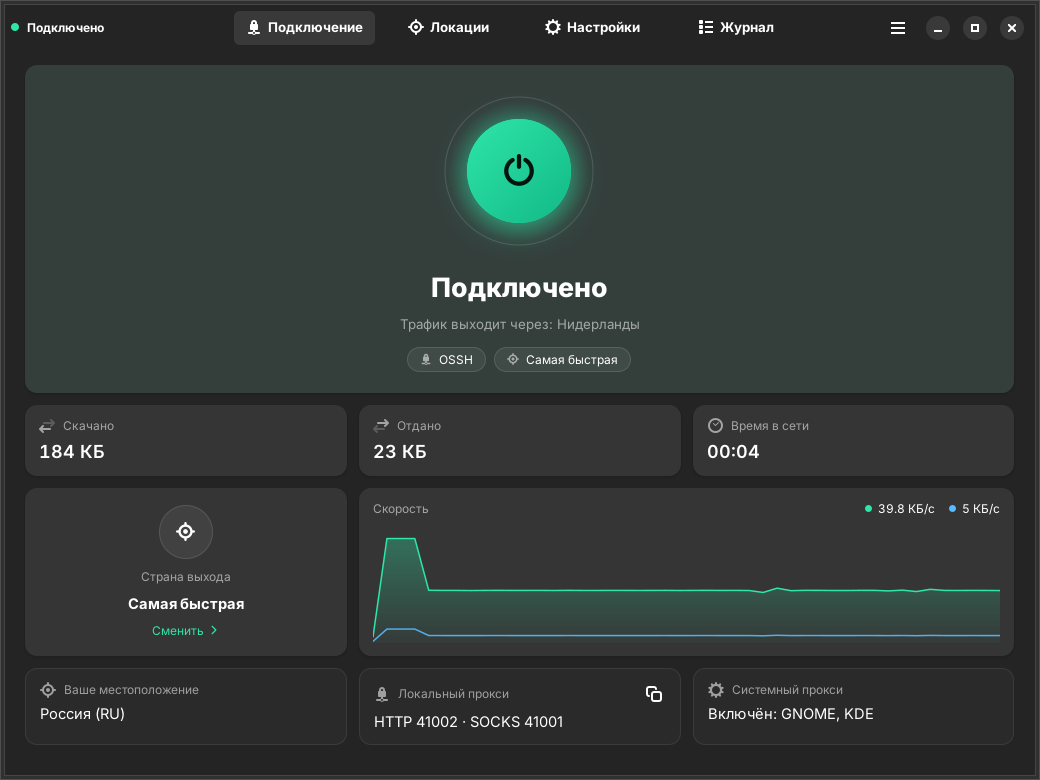
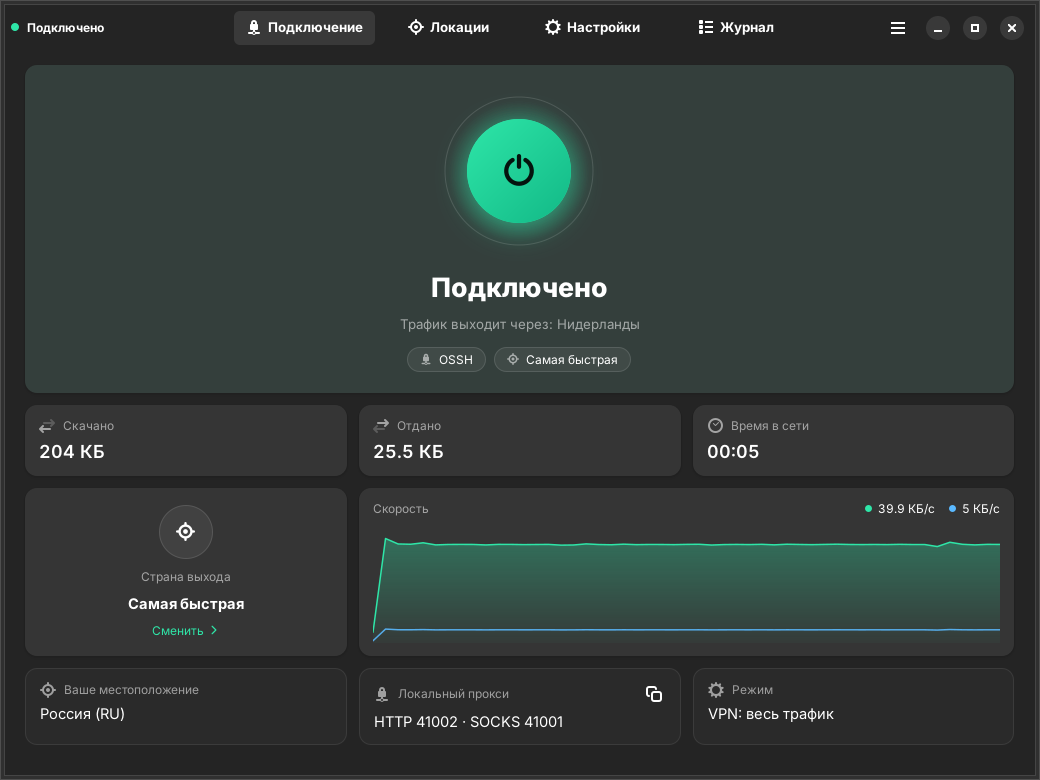
Linux: country list from the built-in servers, helper watches its parent, docs and screenshots for 1.1.0
The country picker is filled from the embedded server list until the
engine reports, so it is never empty before the first connection. The VPN
helper also notices a vanished parent by itself, in case the parent-death
signal is missed. README, release notes and screenshots describe VPN mode.

Claude-Session: https://claude.ai/code/session_01Lxv8NorDPhasZDrG7kxmQU

diff --git a/linux/nextvpn/core/regions.py b/linux/nextvpn/core/regions.py
@@ -2,7 +2,10 @@
 
 from __future__ import annotations
 
+import binascii
+import json
 import locale
+import os
 from dataclasses import dataclass
 
 from .i18n import N_, _
@@ -117,3 +120,30 @@ TUNNEL_PROTOCOLS: tuple[TunnelProtocol, ...] = (
     TunnelProtocol("SHADOWSOCKS-OSSH", "Shadowsocks",
                    N_("Shadowsocks-shaped transport.")),
 )
+
+
+def embedded_regions(server_list: os.PathLike | str) -> list[str]:
+    """
+    The exit countries of the servers built into the app, read straight from the
+    embedded server list, so the picker is full from the very first launch,
+    before the engine has run once. Each line is a hex-encoded server entry:
+    four space-separated legacy fields followed by a JSON object.
+    """
+    found: set[str] = set()
+    try:
+        with open(server_list, "rb") as fh:
+            lines = fh.read().split(b"\n")
+    except OSError:
+        return []
+    for line in lines:
+        line = line.strip()
+        if not line:
+            continue
+        try:
+            entry = json.loads(binascii.unhexlify(line).split(b" ", 4)[4])
+        except (ValueError, IndexError, binascii.Error):
+            continue
+        region = entry.get("region") if isinstance(entry, dict) else None
+        if isinstance(region, str) and len(region) == 2 and region.isalpha():
+            found.add(region.upper())
+    return sorted(found)

diff --git a/linux/nextvpn/core/vpn_helper.py b/linux/nextvpn/core/vpn_helper.py
@@ -94,6 +94,7 @@ class Helper:
         self.uplink: vpn.Uplink | None = None
         self.connected = threading.Event()
         self._checked_dns = False
+        self.parent = os.getppid()
 
     # ---------------------------------------------------------------- run
 
@@ -129,11 +130,20 @@ class Helper:
         if self.stop.is_set() or not self._start_engine():
             return 0 if self.stop.is_set() else 5
 
-        while not self.stop.wait(POLL_SECONDS):
+        waited = 0.0
+        while not self.stop.wait(1.0):
+            # The parent-death signal is the fast path; this catches the app
+            # going away however it went, a second later at most.
+            if os.getppid() != self.parent:
+                return 0
+            # An engine that gives up is noticed at once, the uplink every few seconds.
             code = self.proc.poll()
             if code is not None:
                 return code
-            self._follow_uplink()
+            waited += 1.0
+            if waited >= POLL_SECONDS:
+                waited = 0.0
+                self._follow_uplink()
             if self.connected.is_set() and not self._checked_dns:
                 self._checked_dns = True
                 threading.Thread(target=self._check_dns, daemon=True).start()

diff --git a/linux/nextvpn/ui/viewmodel.py b/linux/nextvpn/ui/viewmodel.py
@@ -16,12 +16,12 @@ from datetime import datetime
 
 from gi.repository import GLib, GObject
 
-from ..core import fmt, system_proxy
+from ..core import fmt, paths, system_proxy
 from ..core.engine import EngineOutput, TunnelEngine
 from ..core.i18n import _
 from ..core.notice import Notice, NoticeType
 from ..core.policy import NoticeLevel, NoticePolicy
-from ..core.regions import RegionInfo, Regions
+from ..core.regions import RegionInfo, Regions, embedded_regions
 from ..core.settings import AppSettings, ConnectionMode
 from ..core.status import StatusPresenter, TunnelState
 from ..core.system_proxy import SystemProxy
@@ -86,7 +86,9 @@ class MainViewModel(GObject.Object):
 
         self.selected_region = Regions.describe(settings.egress_region)
         self.available_regions: list[RegionInfo] = []
-        self._rebuild_regions(settings.known_regions)
+        # Until the engine has reported once, the countries of the built-in
+        # servers: the engine starts from exactly those.
+        self._rebuild_regions(settings.known_regions or embedded_regions(paths.engine().server_list))
 
         self.engine.state_changed.connect(self._on_state_changed)
         self.engine.notice_received.connect(self._on_notice)

diff --git a/linux/tests/test_regions_status.py b/linux/tests/test_regions_status.py
@@ -106,3 +106,25 @@ class StatusPresenterTests(unittest.TestCase):
 
 if __name__ == "__main__":
     unittest.main()
+
+
+class EmbeddedRegionTests(unittest.TestCase):
+    def test_the_shipped_server_list_offers_its_countries_before_the_engine_runs(self):
+        from nextvpn.core import paths
+        from nextvpn.core.regions import embedded_regions
+        codes = embedded_regions(paths.engine().server_list)
+        self.assertGreaterEqual(len(codes), 10)
+        for code in ("DE", "NL", "US"):
+            self.assertIn(code, codes)
+        self.assertEqual(sorted(codes), codes)
+
+    def test_garbage_and_missing_files_give_nothing_rather_than_an_error(self):
+        import binascii
+        import tempfile
+        from pathlib import Path
+        from nextvpn.core.regions import embedded_regions
+        with tempfile.TemporaryDirectory() as d:
+            good = binascii.hexlify(b'0 0 0 0 {"region":"fi","ipAddress":"192.0.2.1"}')
+            Path(d, "list").write_bytes(b"zz\n" + good + b"\n\n" + binascii.hexlify(b"0 0 0 0 [1]") + b"\n")
+            self.assertEqual(["FI"], embedded_regions(Path(d, "list")))
+            self.assertEqual([], embedded_regions(Path(d, "missing")))

diff --git a/linux/tests/fake_nm.py b/linux/tests/fake_nm.py
@@ -29,7 +29,10 @@ def profiles() -> dict:
 
 
 def save(p: dict) -> None:
-    (state / "profiles.json").write_text(json.dumps(p))
+    # Atomically: the test reads this file while the helper changes it.
+    tmp = state / f"profiles.json.{os.getpid()}"
+    tmp.write_text(json.dumps(p))
+    os.replace(tmp, state / "profiles.json")
 
 
 def uplink() -> dict:

diff --git a/linux/packaging/release-notes.md b/linux/packaging/release-notes.md
@@ -1,31 +1,49 @@
-## NextVPN для Linux
-
-Первая версия для Linux: GTK 4 и libadwaita, **те же серверы** и все те же
-возможности, что у версии для Windows. Одна кнопка, выбор страны, трей,
-автозапуск, светлая и тёмная тема, интерфейс на русском.
+## NextVPN 1.1.0 для Linux
 
 <img src="https://raw.githubusercontent.com/Just-ElC/NextVPN/main/.github/screenshot-linux-light.png" alt="NextVPN для Linux" width="720">
+
+### Что нового
+
+- **Режим VPN: через туннель идёт всё.** Браузеры, Telegram, Discord, игры,
+  терминал, DNS и IPv6 — в любом окружении, включая Hyprland (caelestia и другие
+  оболочки на quickshell), Sway, niri и i3. Раньше там через туннель шли только
+  немногие программы, читающие системный прокси. Интерфейс создаёт
+  NetworkManager, пароль не нужен. После отключения, сбоя или `kill -9` сеть
+  возвращается как была. Без NetworkManager работает прежний режим системного
+  прокси.
+- **Движок обновлён** до свежего upstream psiphon-tunnel-core (20 октября): там
+  исправления in-proxy подключений, TLS ECH и работы в сетях без IPv6. Сборка
+  воспроизводима: CI пересобирает движок из исходников и сверяет байт в байт.
+- **Значок в трее** появляется в caelestia и других оболочках на quickshell, в
+  том числе при запуске через `nix run`.
+- **Нет синих плашек** со «стартовой страницей» и «версией 189» — это сообщения
+  сети Psiphon для её собственного клиента; теперь они только в журнале.
+- Если подключение через выбранную страну затянулось, NextVPN подскажет
+  выбрать «Самая быстрая» — там серверов во много раз больше.
 
 ### Установка
 
 | Система | Файл | Команда |
 |---|---|---|
-| **Fedora** 40+ | `nextvpn-1.0.0-1.x86_64.rpm` | `sudo dnf install ./nextvpn-1.0.0-1.x86_64.rpm` |
-| **CachyOS, Arch, EndeavourOS, Manjaro** | `nextvpn-1.0.0-1-x86_64.pkg.tar.zst` | `sudo pacman -U nextvpn-1.0.0-1-x86_64.pkg.tar.zst` |
-| **Ubuntu** 24.04+, **Debian** 13+, **Linux Mint** 22+ | `nextvpn_1.0.0-1_amd64.deb` | `sudo apt install ./nextvpn_1.0.0-1_amd64.deb` |
-| **NixOS** | — | `nix run github:Just-ElC/NextVPN/v1.0.0-linux` |
-| Любой другой | `NextVPN-1.0.0-linux.tar.gz` | распаковать, затем `linux/install.sh --deps && linux/install.sh` |
+| **Fedora** 40+ | `nextvpn-1.1.0-1.x86_64.rpm` | `sudo dnf install ./nextvpn-1.1.0-1.x86_64.rpm` |
+| **CachyOS, Arch, EndeavourOS, Manjaro** | `nextvpn-1.1.0-1-x86_64.pkg.tar.zst` | `sudo pacman -U nextvpn-1.1.0-1-x86_64.pkg.tar.zst` |
+| **Ubuntu** 24.04+, **Debian** 13+, **Linux Mint** 22+ | `nextvpn_1.1.0-1_amd64.deb` | `sudo apt install ./nextvpn_1.1.0-1_amd64.deb` |
+| **NixOS** | — | модуль `programs.nextvpn.enable = true` или `nix run github:Just-ElC/NextVPN/v1.1.0-linux` |
+| Любой другой | `NextVPN-1.1.0-linux.tar.gz` | распаковать, затем `linux/install.sh --deps && linux/install.sh` |
 
 После установки NextVPN появится в меню приложений.
 
 ### Что важно знать
 
-- Подключение к сети Psiphon проверено автоматически при сборке этого релиза:
-  туннель поднимается с теми же `base.config` и списком серверов, что у
-  Windows-версии, и через него проходит трафик.
-- На время подключения включается системный прокси GNOME и KDE Plasma — его
-  используют браузеры и большинство программ. Ваши настройки возвращаются после
-  отключения. Для терминала на главной есть кнопка с готовой командой `export`.
+- При сборке этого релиза CI проверил, что всё работает на настоящей сети
+  Psiphon. В режиме прокси трафик идёт через локальный прокси. В режиме VPN
+  обычный запрос и DNS уходят с адреса сервера Psiphon, в том числе при строгом
+  `rp_filter`, как в файрволе NixOS. После отключения и после `kill -9`
+  ничего не остаётся. Серверы, `base.config` и список серверов те же, что у
+  Windows-версии.
+- Режиму VPN нужен NetworkManager. Он есть в Fedora, CachyOS, Ubuntu и на
+  большинстве десктопов NixOS (`networking.networkmanager.enable`). Режим
+  переключается в «Настройки → Система».
 - В **GNOME** значок в трее появится только с расширением AppIndicator
   (`gnome-shell-extension-appindicator`).
 - Сборки для x86_64. Для aarch64 используйте flake (`nix run`) или соберите

diff --git a/README.md b/README.md
@@ -101,16 +101,16 @@
 
 Версия для Linux на GTK 4 и libadwaita: тот же движок, **те же серверы** и все те же
 возможности — одна кнопка, выбор страны, трей, автозапуск, светлая и тёмная тема.
-Системный прокси включается в GNOME и KDE Plasma. Подробности — в
-[linux/README.md](linux/README.md).
+В режиме VPN через туннель идут все программы в любом окружении, от GNOME и KDE
+до Hyprland (caelestia), Sway и niri. Подробности — в [linux/README.md](linux/README.md).
 
 | Система | Скачать | Установить |
 |---|---|---|
-| **Fedora** 40+ | [nextvpn-1.0.0-1.x86_64.rpm](https://github.com/Just-ElC/NextVPN/releases/download/v1.0.0-linux/nextvpn-1.0.0-1.x86_64.rpm) | `sudo dnf install ./nextvpn-1.0.0-1.x86_64.rpm` |
-| **CachyOS, Arch, Manjaro** | [nextvpn-1.0.0-1-x86_64.pkg.tar.zst](https://github.com/Just-ElC/NextVPN/releases/download/v1.0.0-linux/nextvpn-1.0.0-1-x86_64.pkg.tar.zst) | `sudo pacman -U nextvpn-1.0.0-1-x86_64.pkg.tar.zst` |
-| **Ubuntu** 24.04+, **Debian** 13+ | [nextvpn_1.0.0-1_amd64.deb](https://github.com/Just-ElC/NextVPN/releases/download/v1.0.0-linux/nextvpn_1.0.0-1_amd64.deb) | `sudo apt install ./nextvpn_1.0.0-1_amd64.deb` |
+| **Fedora** 40+ | [nextvpn-1.1.0-1.x86_64.rpm](https://github.com/Just-ElC/NextVPN/releases/download/v1.1.0-linux/nextvpn-1.1.0-1.x86_64.rpm) | `sudo dnf install ./nextvpn-1.1.0-1.x86_64.rpm` |
+| **CachyOS, Arch, Manjaro** | [nextvpn-1.1.0-1-x86_64.pkg.tar.zst](https://github.com/Just-ElC/NextVPN/releases/download/v1.1.0-linux/nextvpn-1.1.0-1-x86_64.pkg.tar.zst) | `sudo pacman -U nextvpn-1.1.0-1-x86_64.pkg.tar.zst` |
+| **Ubuntu** 24.04+, **Debian** 13+ | [nextvpn_1.1.0-1_amd64.deb](https://github.com/Just-ElC/NextVPN/releases/download/v1.1.0-linux/nextvpn_1.1.0-1_amd64.deb) | `sudo apt install ./nextvpn_1.1.0-1_amd64.deb` |
 | **NixOS** | — | `nix run github:Just-ElC/NextVPN` или модуль `programs.nextvpn.enable = true` |
-| Другие | [NextVPN-1.0.0-linux.tar.gz](https://github.com/Just-ElC/NextVPN/releases/download/v1.0.0-linux/NextVPN-1.0.0-linux.tar.gz) | распаковать, затем `linux/install.sh --deps && linux/install.sh` |
+| Другие | [NextVPN-1.1.0-linux.tar.gz](https://github.com/Just-ElC/NextVPN/releases/download/v1.1.0-linux/NextVPN-1.1.0-linux.tar.gz) | распаковать, затем `linux/install.sh --deps && linux/install.sh` |
 
 ---
 
@@ -135,7 +135,7 @@
 Браузеры и большинство приложений — сразу. Отдельные игры и программы, которые не смотрят на сетевые настройки Windows, могут ходить в обход.
 
 **А в Linux?**  
-Браузеры и программы, которые берут системный прокси GNOME или KDE, — сразу. Для терминала NextVPN даёт готовую команду с переменными прокси (кнопка у «Локального прокси»). В GNOME для значка в трее нужно расширение AppIndicator.
+Да, во всех: в режиме VPN (по умолчанию) через туннель идут все программы, игры и терминал, вместе с DNS, в любом окружении. Нужен NetworkManager — он есть почти везде; без него NextVPN включает системный прокси GNOME или KDE. В GNOME для значка в трее нужно расширение AppIndicator.
 
 ---
 
